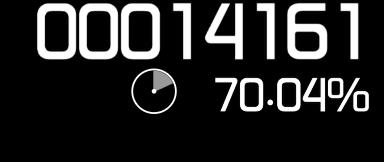
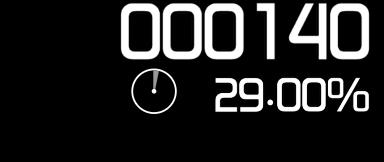
add tesseract model to have score and precision needs to be optimised

diff --git a/scripts/tesseract_model.py b/scripts/tesseract_model.py
@@ -18,7 +18,7 @@ from queue import Queue
 device = torch.device("cuda" if torch.cuda.is_available() else "cpu")
 
 # Fonction de la détection du score et de la précision
-def detect_numbers(image):
+def detect_numbers(image, model):
     
     # Récupérer les dimensions originales de l'image
     width, height = image.size
@@ -34,16 +34,14 @@ def detect_numbers(image):
 
     plt.imsave("tmp/test_region.jpg",region,cmap='gray')
 
-    '''
     # Appliquer les transformations nécessaires à la région
     region_tensor = functional.to_tensor(region)
-    region_tensor = region_tensor.unsqueeze(
-        0)  # Ajouter une dimension pour le lot
+    region_tensor = region_tensor.unsqueeze(0)  # Ajouter une dimension pour le lot
 
     # Effectuer l'inférence sur la région
     with torch.no_grad():
         prediction = model(region_tensor)
-    '''
+
     # Utiliser Tesseract OCR pour reconnaître le texte dans la région
     result = pytesseract.image_to_string(region)
     # Filtrer les caractères pour ne conserver que les nombres, et le retour à a ligne pour séparer les 2 résultats
@@ -93,9 +91,9 @@ def extraction_score_precision(filtered_result):
 
 
 # Fonction générale de détection du score et de la précision
-def process_image(image):
+def process_image(image,model):
     # Detection des nombres sur l'image
-    filtered_result = detect_numbers(image)
+    filtered_result = detect_numbers(image,model)
 
     if filtered_result is None:
         print("Aucun nombre détecté. Traitement arrêté.")
@@ -136,10 +134,11 @@ def tesseract_model(que : Queue):
             img = que.get()
             img.save("tmp/test.jpg")
             # detect_numbers(img,model)
-            score, precision = process_image(img)
+            score, precision = process_image(img,model)
             # Print the detected score and precision
-            print("Detected Score:", score)
-            print("Detected Precision:", precision)
+            print("Queue lenght : ", que.qsize())
+            # print("Detected Score:", score)
+            # print("Detected Precision:", precision)
             print("Time taken :" ,time.time() - T)
     except Exception as e:
         print(f"Error in tesseract_model: {e}")
